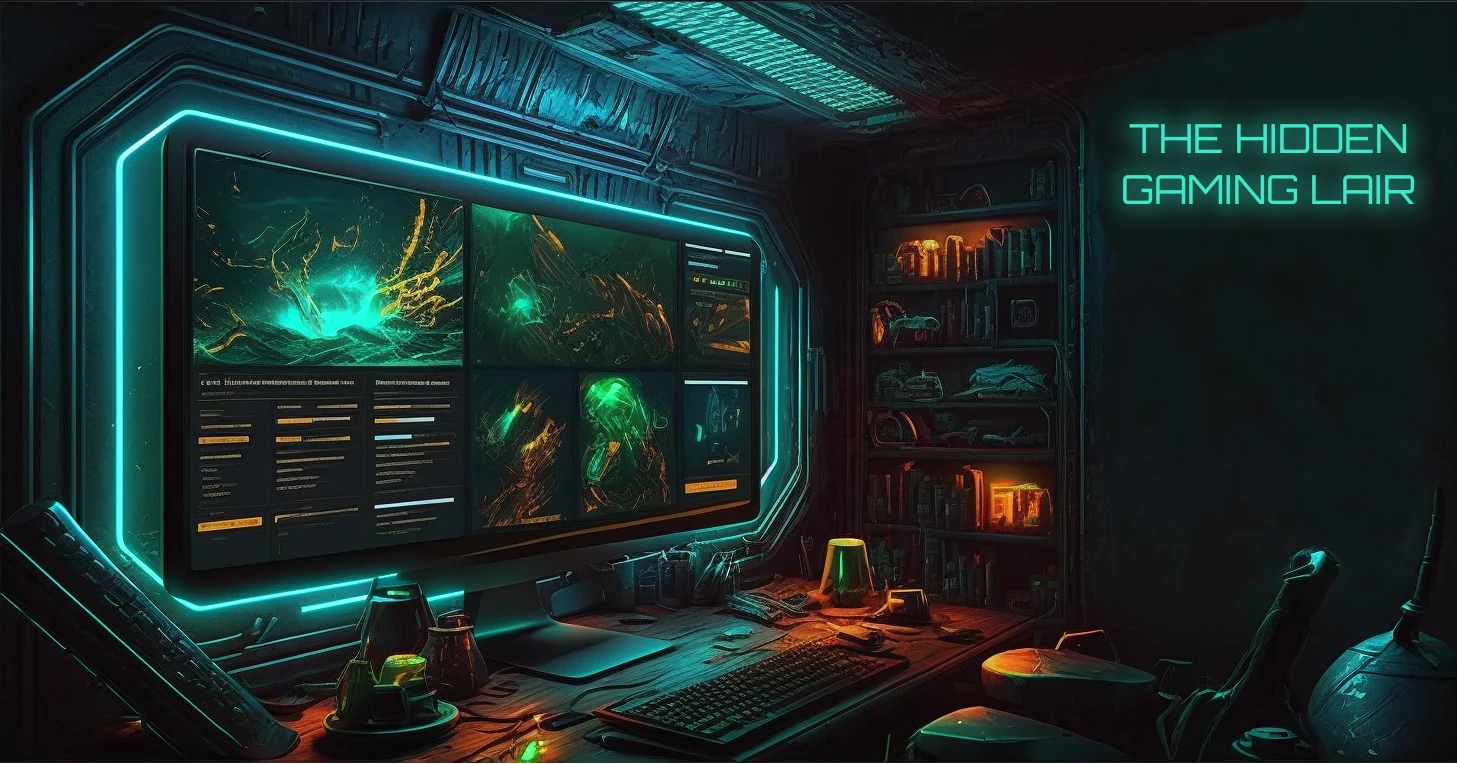
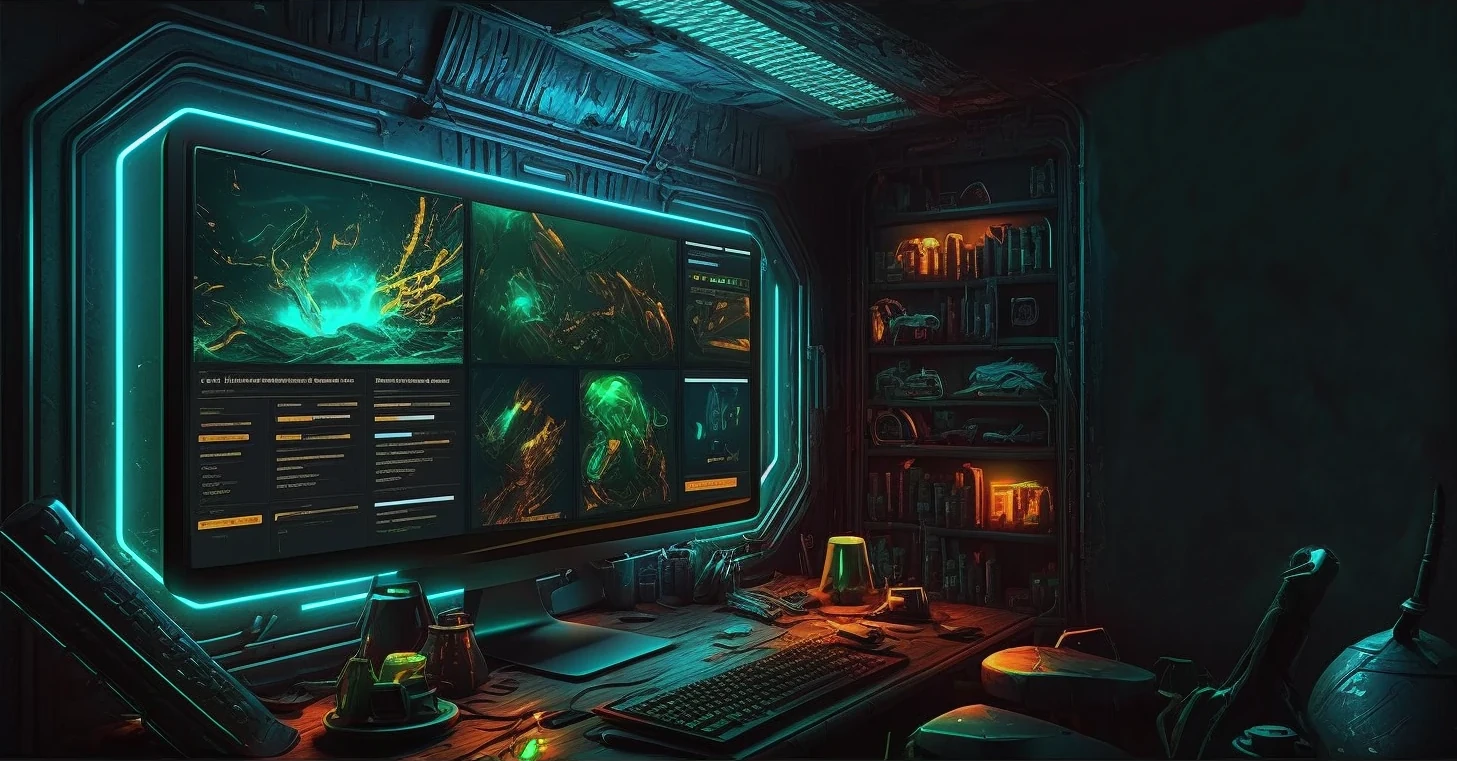
Add projects

diff --git a/app/page.tsx b/app/page.tsx
@@ -1,5 +1,7 @@
 import { Orbitron as Font } from "next/font/google";
 import Image from "next/image";
+import Link from "next/link";
+import { CardLink } from "./card-link";
 
 const font = Font({
   subsets: ["latin"],
@@ -7,74 +9,131 @@ const font = Font({
 
 export default function Home() {
   return (
-    <main className="flex min-h-screen flex-col max-w-7xl mx-auto relative">
+    <main className="flex min-h-screen flex-col max-w-7xl mx-auto relative border border-[#1d1d1f] pb-20">
       <div className="w-full relative">
         <Image
           src="/hero.webp"
           alt="Hero Background"
           className={`w-full object-contain`}
-          width={0}
-          height={0}
+          width={1280}
+          height={671}
           sizes="100vw"
           draggable={false}
         />
         <h1
-          className={`${font.className} absolute right-[2.8%] top-[15%] text-center line-s uppercase text-[#3de7c9]`}
+          className={`${font.className} absolute right-[6%] top-[27%] text-center line-s uppercase text-[#3de7c9]`}
           style={{
-            fontSize: "clamp(14px, 2.7vw, 36px)",
-            lineHeight: "120%",
+            fontSize: "clamp(12px, 3vw, 38px)",
+            lineHeight: "125%",
             textShadow: "0px 0px 2.5rem #35c7ae, 0px 0px 2.5rem #35c7ae",
           }}
         >
-          The Hidden
+          The
           <br />
-          Gaming Lair
+          Hidden
+          <br />
+          Gaming
+          <br />
+          Lair
         </h1>
-        <p
-          className="absolute right-[2.8%] top-[33%] w-[20%] text-[#a7a7a7] text-center"
-          style={{
-            fontSize: "clamp(10px, 1.5vw, 19px)",
-            lineHeight: "130%",
-            textShadow: "2px 2px 0.5rem black",
-          }}
-        >
-          We&apos;re a hub for gamers who want to enhance their gaming
-          experience. Our portfolio includes a variety of gaming apps and tools,
-          including interactive maps for popular games, as well as achievement
-          trackers and databases.
-        </p>
       </div>
-      <section className="pt-10">
+      <section>
         <h2
-          className={`${font.className} text-center text-[#3de7c9] text-2xl uppercase`}
+          className={`${font.className} text-center text-[#3de7c9] text-2xl uppercase py-10 from`}
+          style={{
+            textShadow: "0px 0px 1rem #35c7ae",
+          }}
         >
           Gaming apps & tools
         </h2>
 
-        <div className="my-10 grid text-center lg:mb-0 lg:grid-cols-4 lg:text-left">
-          <a
-            href="https://beta.nextjs.org/docs?utm_source=create-next-app&utm_medium=appdir-template&utm_campaign=create-next-app"
-            className="group rounded-lg border border-transparent px-5 py-4 transition-colors hover:border-gray-300 hover:bg-gray-100 hover:dark:border-neutral-700 hover:dark:bg-neutral-800/30"
-            target="_blank"
-            rel="noopener noreferrer"
-          >
-            <h2 className={`mb-3 text-2xl font-semibold`}>
-              Aeternum Map{" "}
-              <span className="inline-block transition-transform group-hover:translate-x-1 motion-reduce:transform-none">
-                -&gt;
-              </span>
-            </h2>
-            <p className={`m-0 max-w-[30ch] text-sm opacity-50`}>
-              Interactive map for New World
-            </p>
-            <Image
-              src="https://raw.githubusercontent.com/lmachens/aeternum-map/main/media/Tile.jpg"
-              alt="Aeternum Map"
-              width={258}
-              height={198}
-            />
-          </a>
+        <div className="p-4 flex flex-wrap gap-8 justify-center">
+          <CardLink
+            href="https://aeternum-map.gg"
+            src="/aeternum-map.jpg"
+            alt="Aeternum Map"
+            title="New World Map"
+            description="Interactive map for with real-time position tracking"
+          />
+          <CardLink
+            href="https://sotf.th.gl"
+            src="/sotf.jpg"
+            alt="Sons Of The Forest Map"
+            title="Sons Of The Forest Map"
+            description="Real-Time position tracking, nodes and more"
+          />
+          <CardLink
+            href="https://www.arkesia.gg"
+            src="/arkesia.jpg"
+            alt="Arkesia.gg"
+            title="Lost Ark Map"
+            description="Interactive map with mokoko seeds, hidden stories and more"
+          />
+          <CardLink
+            href="https://www.hogwarts.gg"
+            src="/hogwarts.jpg"
+            alt="Hogwarts.gg"
+            title="Hogwarts Legacy Map"
+            description="Real-time tracking and progress updates"
+          />
+          <CardLink
+            href="https://www.soc.gg"
+            src="/soc.jpg"
+            alt="SoC.gg"
+            title="Songs Of Conquest"
+            description="Database with buildings, factions, units, skills, spells and wielders"
+          />
+          <CardLink
+            href="https://th.gl"
+            src="/th.jpg"
+            alt="Trophy Hunter"
+            title="League Of Legends"
+            description="Over 200 trophies to achieve, all with unique abilities and skills"
+          />
+          <CardLink
+            href="https://www.nwmap.info"
+            src="/nwmap.jpg"
+            alt="Trophy Hunter"
+            title="New World Faction Map"
+            description="Bring a visual understanding of each server"
+          />
+          <CardLink
+            href="https://github.com/lmachens/skeleton"
+            src="/skeleton.jpg"
+            alt="Skeleton"
+            title="Website Overlays"
+            description="Simply display any website as customizable Overlay"
+          />
         </div>
+        <section>
+          <h2
+            className={`${font.className} text-center text-[#3de7c9] text-2xl uppercase py-10 from`}
+            style={{
+              textShadow: "0px 0px 1rem #35c7ae",
+            }}
+          >
+            Community
+          </h2>
+          <p className="p-4 text-center">
+            We&apos;re a hub for gamers who want to enhance their gaming
+            experience. Our portfolio includes a variety of gaming apps and
+            tools, including interactive maps for popular games, as well as
+            achievement trackers and databases. Do you have any questions,
+            feedback or suggestions? Join our Discord server and let us know!
+          </p>
+          <Link
+            href="https://discord.gg/NTZu8Px"
+            target="_blank"
+            className="mx-auto block w-fit my-6 hover:scale-110 transition-transform"
+          >
+            <Image
+              src="/discord-logo-white.png"
+              width={207}
+              height={39}
+              alt="Discord"
+            />
+          </Link>
+        </section>
       </section>
     </main>
   );

diff --git a/app/layout.tsx b/app/layout.tsx
@@ -1,5 +1,4 @@
 import { Exo_2 as Font } from "next/font/google";
-import { AppHeader } from "./app-header";
 import "./globals.css";
 
 const font = Font({
@@ -7,8 +6,12 @@ const font = Font({
 });
 
 export const metadata = {
-  title: "The Hidden Gaming Lair",
-  description: "Generated by create next app",
+  title: "The Hidden Gaming Lair - Enhance Your Gaming Experience",
+  description:
+    "Welcome to The Hidden Gaming Lair! Discover a variety of gaming apps and tools, including interactive maps, databases, and achievement trackers, designed to enhance your gaming experience. Explore our site and level up your gaming!",
+  keywords: "gaming, apps, interactive maps, databases, achievement trackers",
+  authors: [{ name: "DevLeon", url: "https://github.com/lmachens" }],
+  viewport: "width=device-width, initial-scale=1.0",
 };
 
 export default function RootLayout({
@@ -17,11 +20,10 @@ export default function RootLayout({
   children: React.ReactNode;
 }) {
   return (
-    <html lang="en">
+    <html lang="en" className="scroll-smooth">
       <body
         className={`${font.className} bg-gradient-to-b from-[#161516] to-[#09080c] select-none`}
       >
-        <AppHeader />
         {children}
       </body>
     </html>

diff --git a/app/card-link.tsx b/app/card-link.tsx
@@ -1,0 +1,30 @@
+import Image from "next/image";
+import Link from "next/link";
+
+export function CardLink({
+  href,
+  src,
+  alt,
+  title,
+  description,
+}: {
+  href: string;
+  src: string;
+  alt: string;
+  title: string;
+  description: string;
+}) {
+  return (
+    <Link
+      href={href}
+      className="rounded-lg border border-[#569287] bg-[#0b0a0e] overflow-hidden w-[258px] h-[310px] hover:scale-110 transition-transform"
+      target="_blank"
+    >
+      <Image src={src} alt={alt} width={258} height={198} draggable={false} />
+      <h2 className={`m-3 text-lg font-semibold text-center`}>{title}</h2>
+      <p className={`m-3 max-w-[30ch] text-sm opacity-50 text-center`}>
+        {description}
+      </p>
+    </Link>
+  );
+}

diff --git a/app/app-header.tsx b/app/app-header.tsx
@@ -6,11 +6,8 @@ export function AppHeader() {
       <div className="bg-[#161516] max-w-7xl mx-auto flex h-14 justify-between items-center px-6">
         <h1 className="text-2xl">The Hidden Gaming Lair</h1>
         <nav className="space-x-4">
-          <Link href="/blog">Blog</Link>
-          <Link href="/about">About</Link>
-          <Link href="https://discord.gg/NTZu8Px" target="_blank">
-            Discord
-          </Link>
+          <Link href="#apps">Apps</Link>
+          <Link href="#community">Community</Link>
         </nav>
       </div>
     </header>

diff --git a/next.config.js b/next.config.js
@@ -3,9 +3,6 @@ const nextConfig = {
   experimental: {
     appDir: true,
   },
-  images: {
-    domains: ["raw.githubusercontent.com"],
-  },
 };
 
 module.exports = nextConfig;
